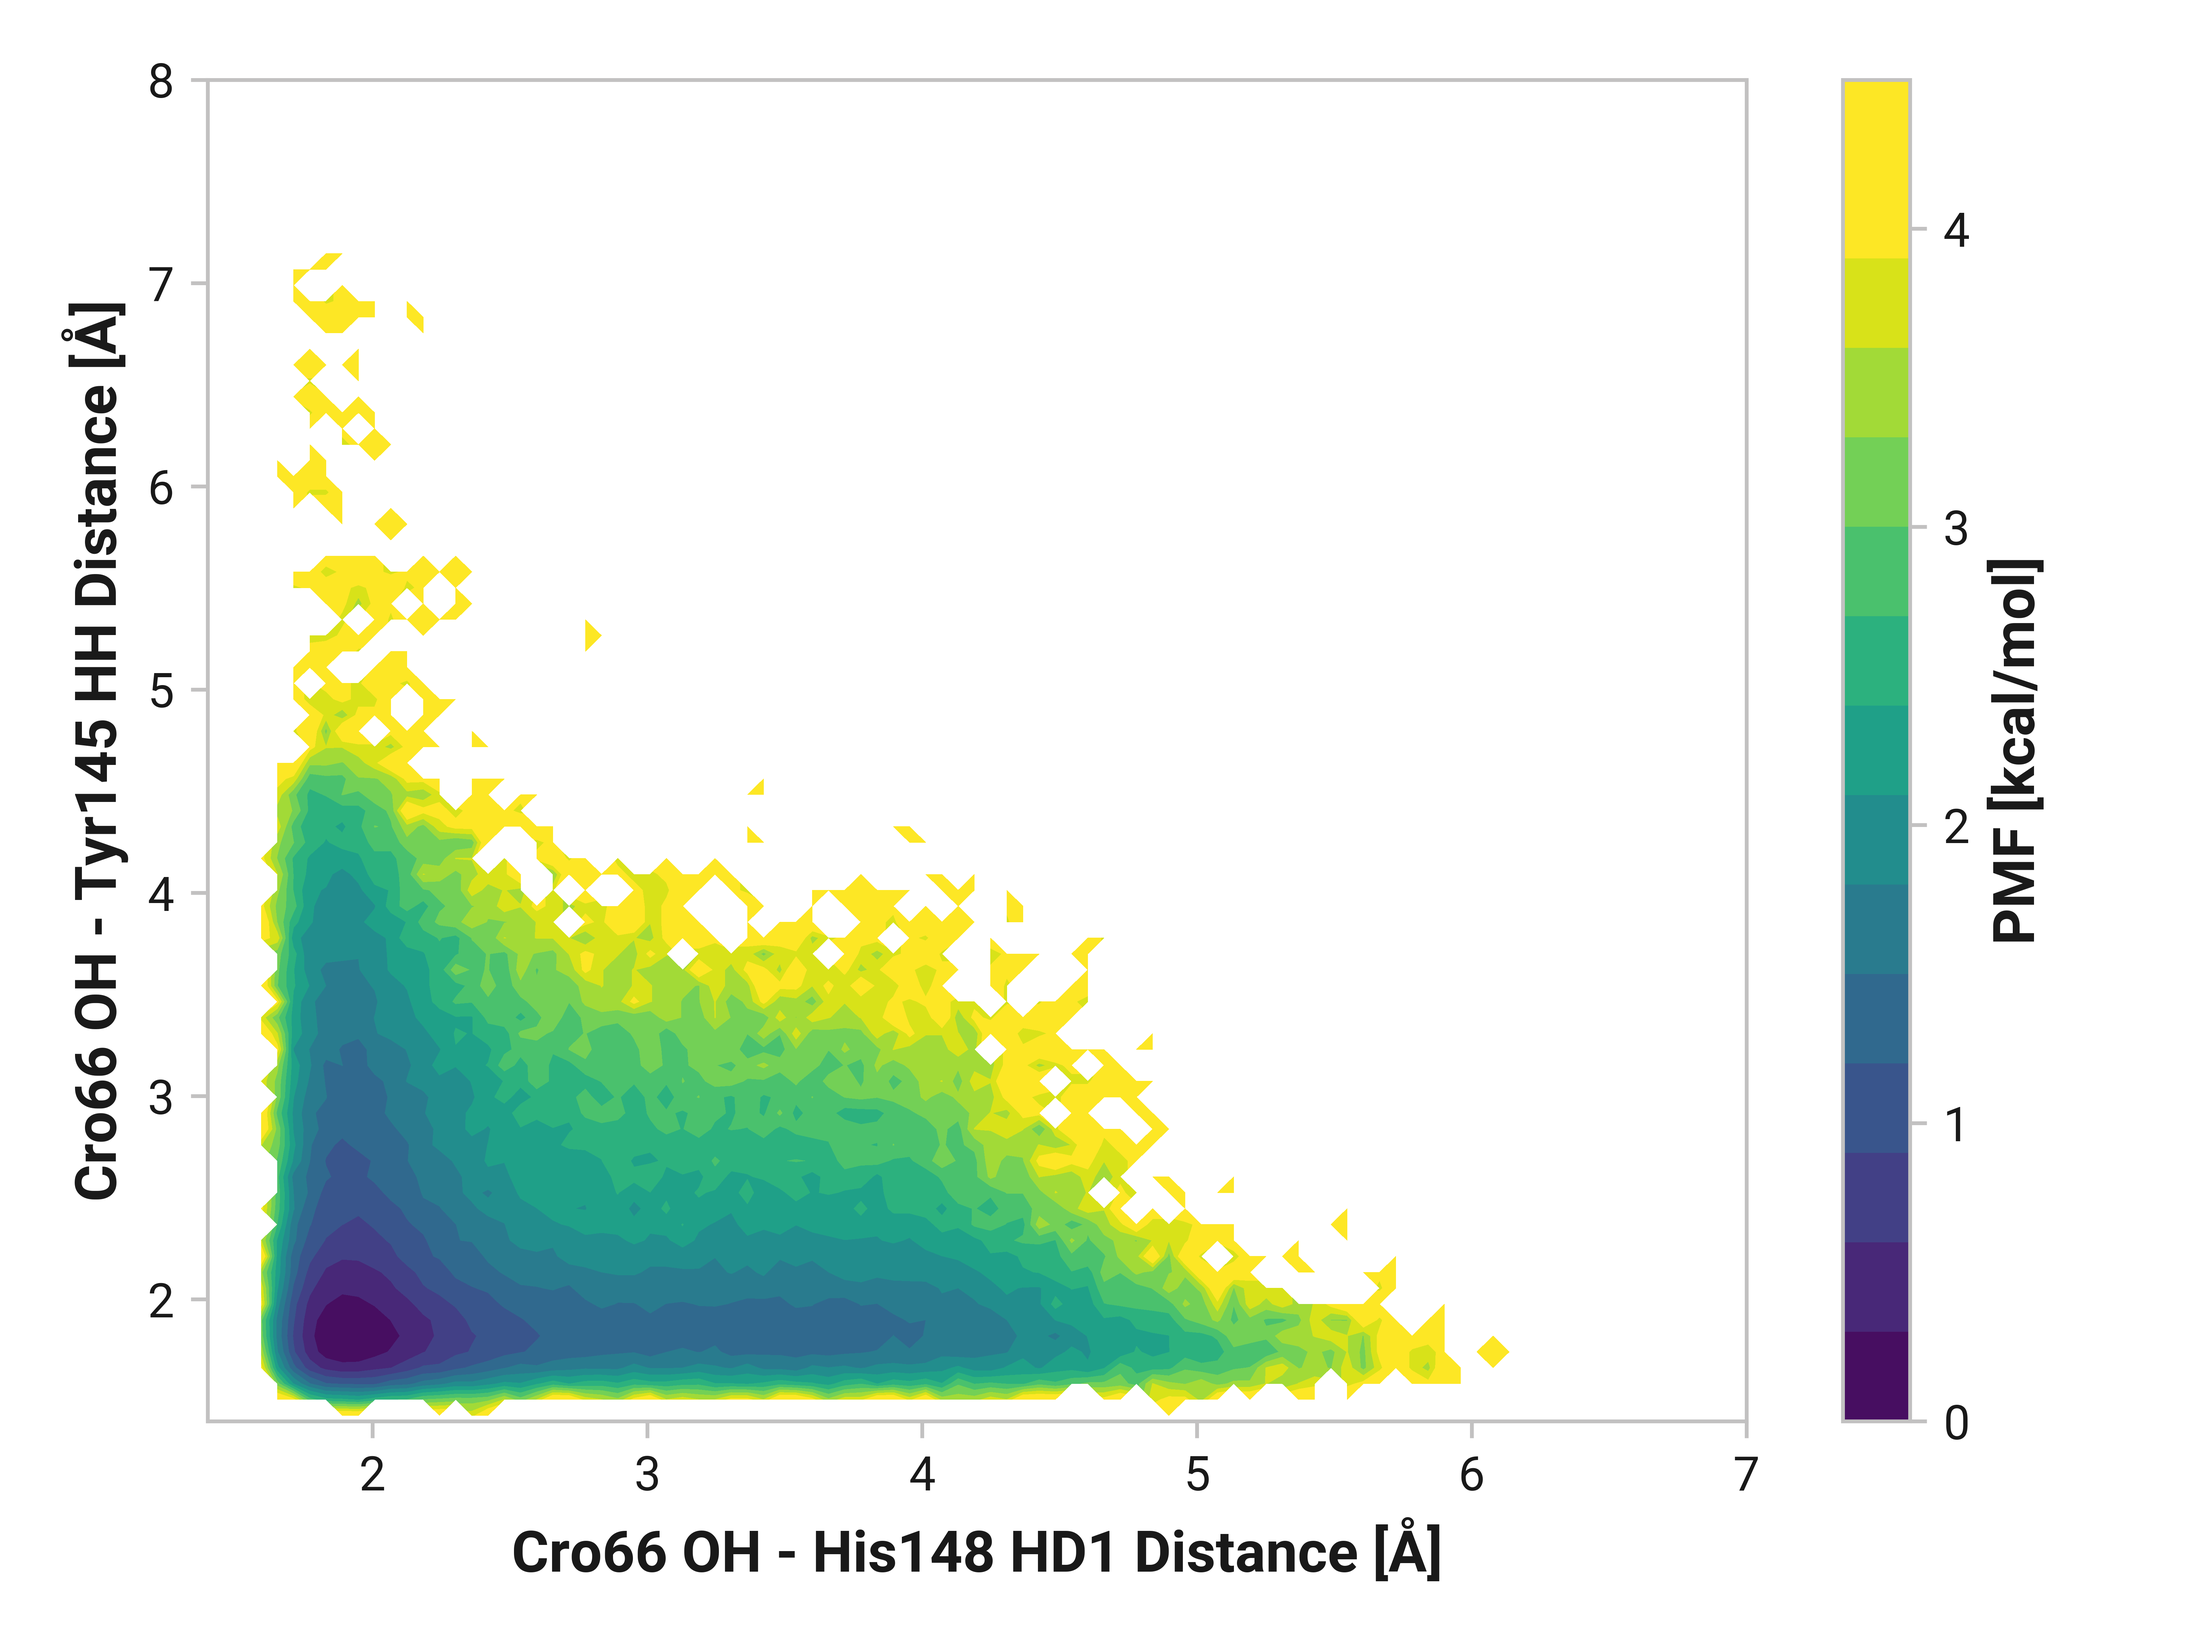
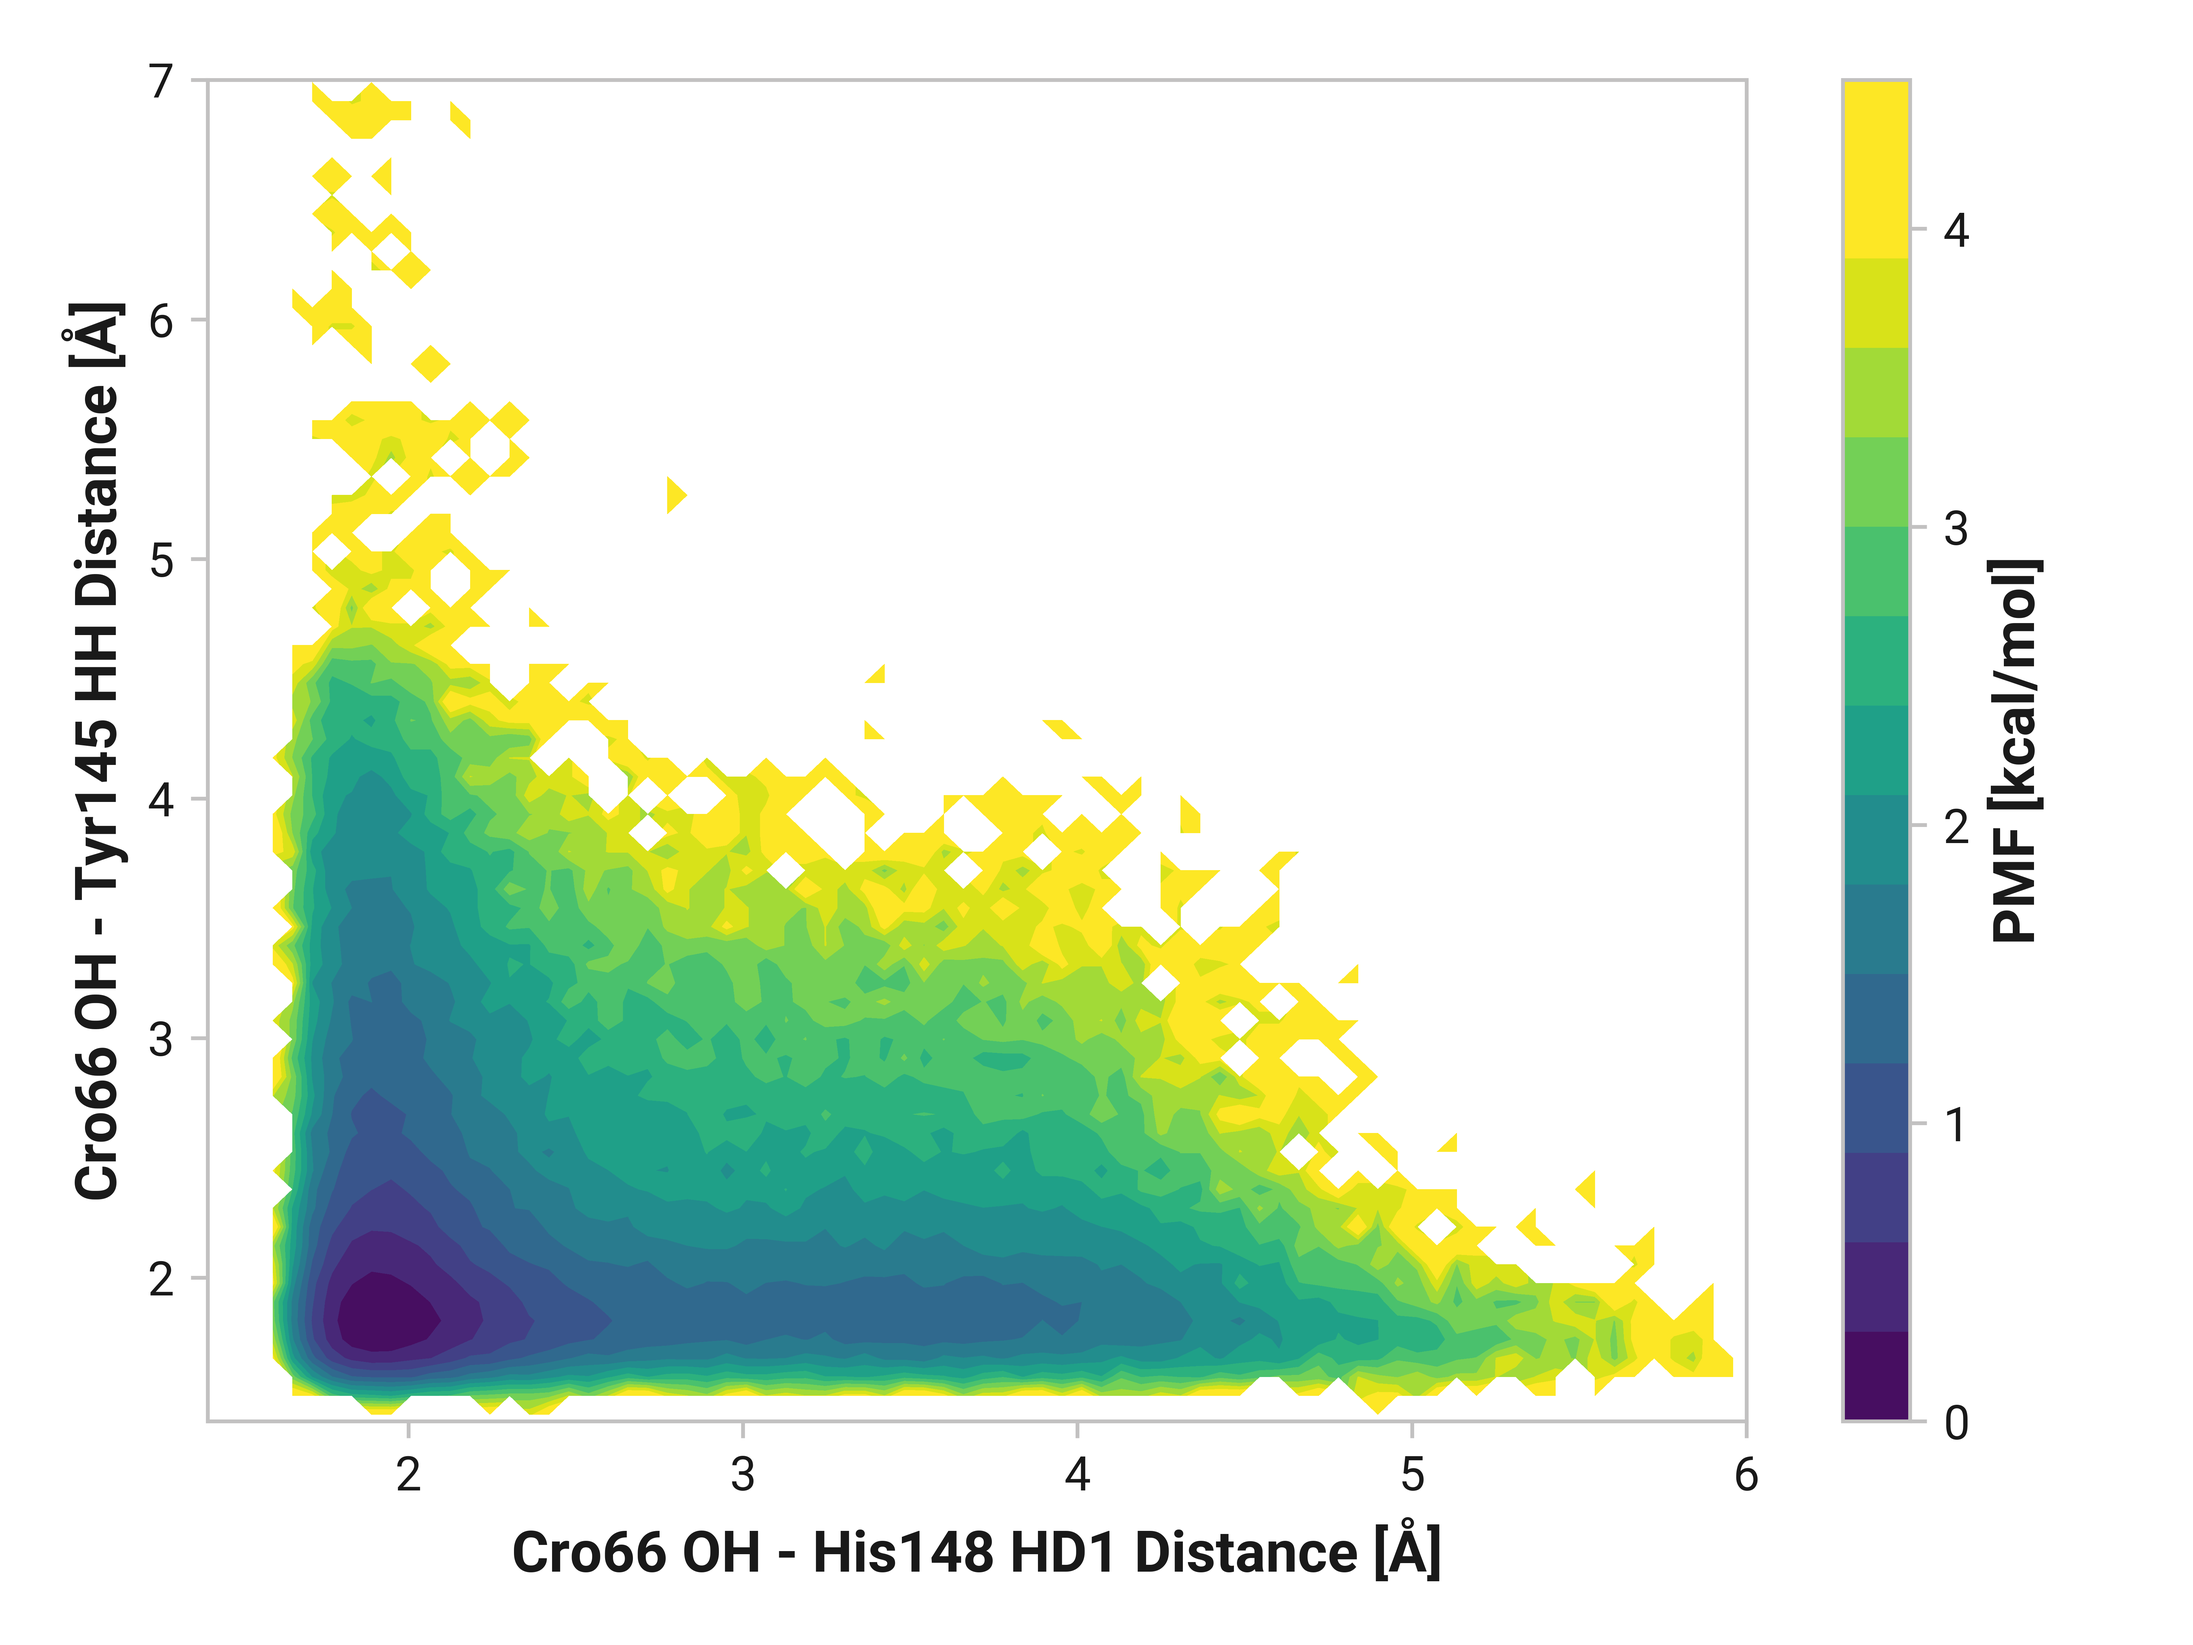
Start r003

diff --git a/study/figures/g-cro-interact/g001-his148_hd1-tyr145_hh/pes.py b/study/figures/g-cro-interact/g001-his148_hd1-tyr145_hh/pes.py
@@ -12,10 +12,10 @@ os.chdir(os.path.dirname(os.path.realpath(__file__)))
 bin_min, bin_max = 1, 10
 bin_width = 0.1
 n_bins = int((bin_max - bin_min) / bin_width)
-x_lims = (1.4, 7)
-x_ticks = np.arange(2, 7 + 1, 1)
-y_lims = (1.4, 8)
-y_ticks = np.arange(2, 8 + 1, 1)
+x_lims = (1.4, 6)
+x_ticks = np.arange(2, 6 + 0.01, 1)
+y_lims = (1.4, 7)
+y_ticks = np.arange(2, 7 + 0.01, 1)
 
 fig_label = "g001-pes"
 data_x_str = "cro65_oh-his146_hd1-dist"

diff --git a/study/dissemination/reports/rogfp2-cu-mechanism/README.md b/study/dissemination/reports/rogfp2-cu-mechanism/README.md
@@ -1,0 +1,199 @@
+# R003 - Cu(I) binding mechanism of roGFP2
+
+This report proposes molecular mechanisms of Cu(I) binding to roGFP2 [^hanson2004investigating].
+
+## Interpreting roGFP2 fluorescence
+
+roGFP2 contains mutations creating a redox-sensitive pair of Cystines at position 147 and 204 in eGFP [^hanson2004investigating].
+
+!!! quote "Figure 1: Graphical representation of pertinent eGFP mutations for roGFP2."
+
+    <figure markdown>
+    ![](../../../figures/h-background/h008-cys-aligned/cys-sensor-reduced.png){ width=700 }
+    </figure>
+
+Oxidized roGFP2 exhibits a distinct shift in A- and B-band absorption [^hanson2004investigating].
+
+!!! quote "Figure 2: roGFP2 florescence in response to oxidizing environments."
+    <figure markdown>
+    ![](../../../figures/h-background/h002-rogfp2-fluorescence/rogfp2-redox-fluorescence.png){ width=400 }
+    </figure>
+
+    Relative fluorescence at 511 nm after excitation scan from 350 to 500 nm at -0.310 (blue), -0.275 (green), and -0.240 V (orange) redox potentials.
+    Adapted from Hanson et al [^hanson2004investigating].
+
+### A-band
+
+A-band absorbance at around 400 nm with subsequent 511 nm fluorescence primarily indicates the canonical GFP photocycle shown in Figure 3.
+
+???+ warning
+    The exact wavelengths vary between GFP constructs; numbers provided here offer practical guidelines.
+
+!!! quote "Figure 3: GFP photocycle following A-band excitation."
+    <figure markdown>
+    ![](../../../figures/h-background/h004-cro-states/gfp-photocycle.svg){ width=500 }
+    </figure>
+
+    This process involves the initial excitation of the neutral (protonated) chromophore, followed by rapid, successive proton transfer events in the excited state, ultimately resulting in emission from the anionic chromophore.
+
+### B-band
+
+B-band absorption represents excitation of the anionic chromophore.
+All aforementioned changes in the A band could also complementary impact the B band.
+
+!!! quote "Figure 4: GFP photocycle following A-band excitation."
+    <figure markdown>
+    ![](../../../figures/h-background/h006-cro-excitation/gfp-b-emission.svg){ width=250 }
+    </figure>
+
+### Perturbations
+
+Changes in A- or B-band absorption could indicate a variety of environmental changes in the chromophore.
+
+-   **Equilibrium ratio of A or B state populations.**
+    Changes in neutral (A state) or anionic (B state) chromophore stability impacts the relative proportion of A- and B-band absorbance.
+    For example, roGFP1 [^hanson2004investigating] has a higher A band instead of B band.
+    A-state stability would be directly correlated to A-band fluorescence; whereas the B band would be inversely correlated.
+-   **Excited-state proton transfer (ESPT) from A\* &rarr; I\*.**
+    Emissions at the typical 511 nm (green) fluorescence from the A state requires an ESPT from Cro66 to Glu222 through a coordinated water molecule and Ser205.
+    Prohibiting ESPT would result in radiative emission at ~460 nm which often is not monitored.
+-   **Ground-state proton transfer (GSPT) from I &rarr; A.**
+    Reprotonating the chromophore through a GSPT is crucial for maintaining the A band and B-band lifetime.
+    Disrupting the Glu222 &rarr; Ser205, Ser205 &rarr; H<sub>2</sub>O, or H<sub>2</sub>O &rarr; Cro66 pathway would decrease the A-state population&mdash;likely with a corresponding B state increase.
+
+## Fluorescence mechanism of Cu(I) distinct from oxidation
+
+Several experiments were performed to probe the fluorescence mechanism and binding affinity of Cu(I) to roGFP2.
+Our focus here is to elucidate the distinct Cu(I) atomistic mechanism from the oxidized state.
+Figure 5 shows the fluorescence of roGFP2 under various conditions.
+
+!!! quote "Figure 5: Cu(I) fluorescence mechanism is distinct from oxidization."
+    <figure markdown>
+    ![](./s1b.png){ width=600 }
+    </figure>
+
+    Relative fluorescence (measured 528 nm emissions) of roGFP2 under reduced, oxidized, and Cu(I) conditions from 380 to 500 nm excitation scan.
+    <span style="background-color: #FFFF00">(TODO: Check emission value?)</span>
+    **Apo** (i.e., reduced) roGFP2 exhibits typical bimodal absorption of A-band (excited at 400 nm) and B-band (excited at 488) peaks.
+    Upon roGFP2 **oxidation** from 1 mM H<sub>2</sub>O<sub>2</sub>, a shift in A- (increased) and B-band (decreased) absorption and subsequent 528 nm emission marks a corresponding change in neutral and anionic chromophore populations.
+    Binding of **Cu(I)**, however, exhibits a larger decrease in B-band without the A-band increase observed when oxidized.
+
+First, we see a distinct difference from reduced &rarr; oxidized and reduced &rarr; Cu(I).
+Oxidized roGFP2 results in a (1) enhanced A band and (2) slight decrease in the B band.
+However, Cu(I) binding dramatically reduces the B band without change in the A band.
+This indicates that Cu(I) binding affects the chromophore differently than oxidation.
+
+## Cu(I) binding enhances roGFP2 backbone flexibility
+
+First, we investigate the structural dynamics of Cys147 and Cys204 interactions by analyzing the C$_\alpha$-C$_\alpha$ distances.
+Experimental structures of both the reduced (PDB ID: [1JC0](https://www.rcsb.org/structure/1JC0)) and oxidized (PDB ID: [1JC1](https://www.rcsb.org/structure/1JC1)) states of for roGFP2 exhibited a mean C$_\alpha$-C$_\alpha$ distance of 4.30 ± 0.12 and 4.07 ± 0.09, respectively. [^hanson2004investigating]
+Our MD simulations agreed well with experimental observations as shown in Table 1.
+
+!!! quote "Table 1: C$_\alpha$-C$_\alpha$ distance mean ± 2$\sigma$."
+    | State | Experimental (Å) | MD simulations (Å) |
+    | ----- | ------------ | -------------- |
+    | **Reduced** | 4.30 ± 0.12 | 4.34 ± 0.47 |
+    | **Oxidized** | 4.07 ± 0.09 | 4.11 ± 0.29 |
+    | **Cu(I)** | N/A | 4.78 ± 0.82 |
+
+Larger standard deviations, $\sigma$, would be expected for molecular simulations due to capturing the dynamic fluctuations in solution.
+Figure 6 shows the observed distribution of C$_\alpha$-C$_\alpha$ distances.
+
+!!! quote "Figure 6: C$_\alpha$-C$_\alpha$ distance probability density."
+    <figure markdown>
+    ![](../../../figures/b-cys/b004-cys147_ca-cys204_ca/b004-cys147_ca-cys204_ca-pdf.svg){ width=700 }
+    </figure>
+
+    For more figure information, go [here](../../../figures/b-cys/b004-cys147_ca-cys204_ca/).
+
+Cu(I) binding to Cys147 and Cys204 in roGFP2 induces significant structural changes, particularly in the protein's conformation.
+The observed increase in the C$_\alpha$-C$_\alpha$ distance from approximately 4.3 Å to a broader distribution centered around 4.48 Å and 4.96 Å indicates a marked increase in conformational flexibility.
+
+Cys147 is located near the C-terminus end of a $\beta$-pleaded sheet between His148 and Thr203.
+(Figure 7 illustrates the key residues in roGFP2 mechanism.)
+
+!!! quote "Figure 7: Relevant residues in roGFP2 mechanism."
+    <figure markdown>
+    ![](../../../figures/h-background/h009-rogfp2-sims/relevant-reduced.png){ width=700 }
+    </figure>
+
+We observe in Figure 8 that Cu(I) binding breaks this $\beta$-sheet hydrogen bond.
+
+???+ info
+
+    A hydrogen bond of X&ndash;H $\cdots$ Y&ndash;Z, where X is the donor and Y is the acceptor atom, can be classified based on distances and angles.
+    One characteristic recommended by IUPAC is that the H $\cdots$ Y distance is less than the sum of H and Y van der Waals radii.
+    Hydrogen (1.10 Å) and oxygen (1.52 Å) [^mantina2009consistent] would have a cutoff of 2.62 Å.
+    Others recommend a cutoff of 2.50 Å [^hubbard2010hydrogen] based on structural analysis [^mcdonald1994satisfying] and quantum chemical calculations [^liu2008geometrical].
+    Since the difference between a 2.5 and 2.62 Å cutoff is likely a substantially weak hydrogen bond, we will use **a H $\cdots$ Y cutoff of 2.5 Å**.
+
+In fact, Table 2 shows that the hydrogen bond probability ( &ndash;NH to O= within 2.5 Å) decreases from 0.865 (reduced) to 0.063 in Cu(I) simulations.
+
+!!! quote "Figure 8: Probability of observing a backbone hydrogen bond between His148 and Thr203."
+    <figure markdown>
+    ![](../../../figures/f-backbone/f001-his148_h-thr203_o/f001-his148_h-thr203_o-pdf.svg){ width=700 }
+    </figure>
+
+    Probability density of H to O distance between His148 amino to Thr203 carboxyl groups
+
+!!! quote "Table 2: Probability of His148 - Thr203 backbone hydrogen bond."
+
+    | System | H bond |
+    | ------ | ------ |
+    | Reduced | 0.865 |
+    | Oxidized | 0.997 |
+    | Cu(I) | 0.063 |
+
+Parallel results are observed on the other side of Cys147&mdash;between Asn146 and Ser205.
+
+!!! quote "Figure 9: Probability of observing a backbone hydrogen bond between Asn147 and Ser205."
+    <figure markdown>
+    ![](../../../figures/f-backbone/f002-ser205_h-asn146_o/f002-ser205_h-asn146_o-pdf.svg){ width=700 }
+    </figure>
+
+!!! quote "Table 3: Probability of Asn146 - Ser205 backbone hydrogen bond."
+
+    | System | H bond |
+    | ------ | ------ |
+    | Reduced | 0.047 |
+    | Oxidized | 0.144 |
+    | Cu(I) | 0.000 |
+
+## Perturbations in anionic chromophore stability
+
+!!! quote "Figure 9A: PMF of Cro66 stabilization through Tyr145 and His148 in **reduced** simulations."
+    <figure markdown>
+    ![](../../../figures/g-cro-interact/g001-his148_hd1-tyr145_hh/g001-pes-reduced.png){ width=700 }
+    </figure>
+
+!!! quote "Figure 9B: PMF of Cro66 stabilization through Tyr145 and His148 in **oxidized** simulations."
+    <figure markdown>
+    ![](../../../figures/g-cro-interact/g001-his148_hd1-tyr145_hh/g001-pes-oxidized.png){ width=700 }
+    </figure>
+
+!!! quote "Figure 9C: PMF of Cro66 stabilization through Tyr145 and His148 in **Cu(I)** simulations."
+    <figure markdown>
+    ![](../../../figures/g-cro-interact/g001-his148_hd1-tyr145_hh/g001-pes-cu.png){ width=700 }
+    </figure>
+
+!!! quote "Figure 10: "
+    <figure markdown>
+    ![](../../../figures/g-cro-interact/g010-cro66_oh-thr203_hg1/g010-cro66_oh-thr203_hg1-pdf.svg){ width=700 }
+    </figure>
+
+## Disruption of ground-state proton transfer
+
+!!! quote "Figure 11"
+    <figure markdown>
+    ![](../../../figures/e-proton-wire/e001-ser205_og-glu222_he2/e001-ser205_og-glu222_he2-pdf.svg){ width=700 }
+    </figure>
+
+<!-- References -->
+
+[^hanson2004investigating]: Hanson, G. T., Aggeler, R., Oglesbee, D., Cannon, M., Capaldi, R. A., Tsien, R. Y., & Remington, S. J. (2004). Investigating mitochondrial redox potential with redox-sensitive green fluorescent protein indicators. Journal of Biological Chemistry, 279(13), 13044-13053. DOI: [10.1074/jbc.M312846200](https://doi.org/10.1074/jbc.M312846200)
+
+
+[^mantina2009consistent]: Mantina, M., Chamberlin, A. C., Valero, R., Cramer, C. J., & Truhlar, D. G. (2009). Consistent van der Waals radii for the whole main group. *Journal of Physical Chemistry A, 113*(19), 5806-5812.
+[^hubbard2010hydrogen]: Hubbard, R. E., & Haider, M. K. (2010). Hydrogen bonds in proteins: role and strength. *Encyclopedia of life sciences*, 1, 1-6.
+[^mcdonald1994satisfying]: McDonald, I. K., & Thornton, J. M. (1994). Satisfying hydrogen bonding potential in proteins. *Journal of molecular biology, 238*(5), 777-793.
+[^liu2008geometrical]: Liu, Z., Wang, G., Li, Z., & Wang, R. (2008). Geometrical Preferences of the Hydrogen Bonds on Protein− Ligand Binding Interface Derived from Statistical Surveys and Quantum Mechanics Calculations. *Journal of Chemical Theory and Computation, 4*(11), 1959-1973.
